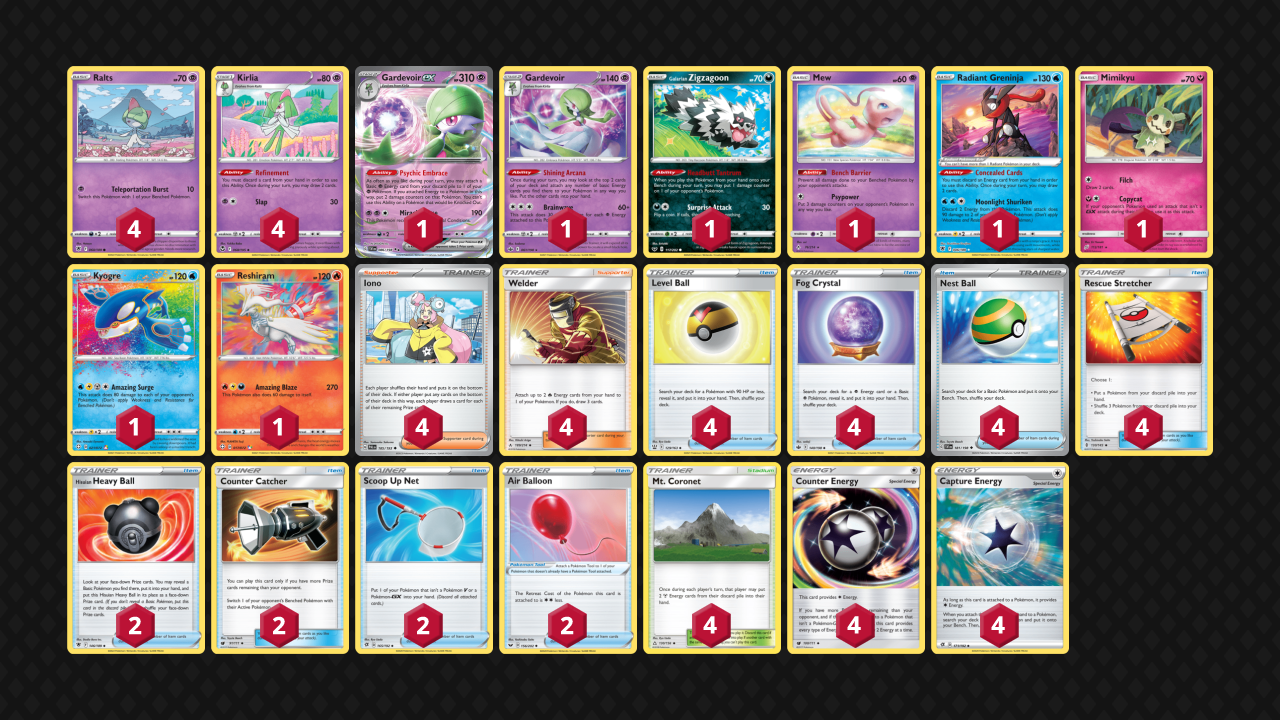
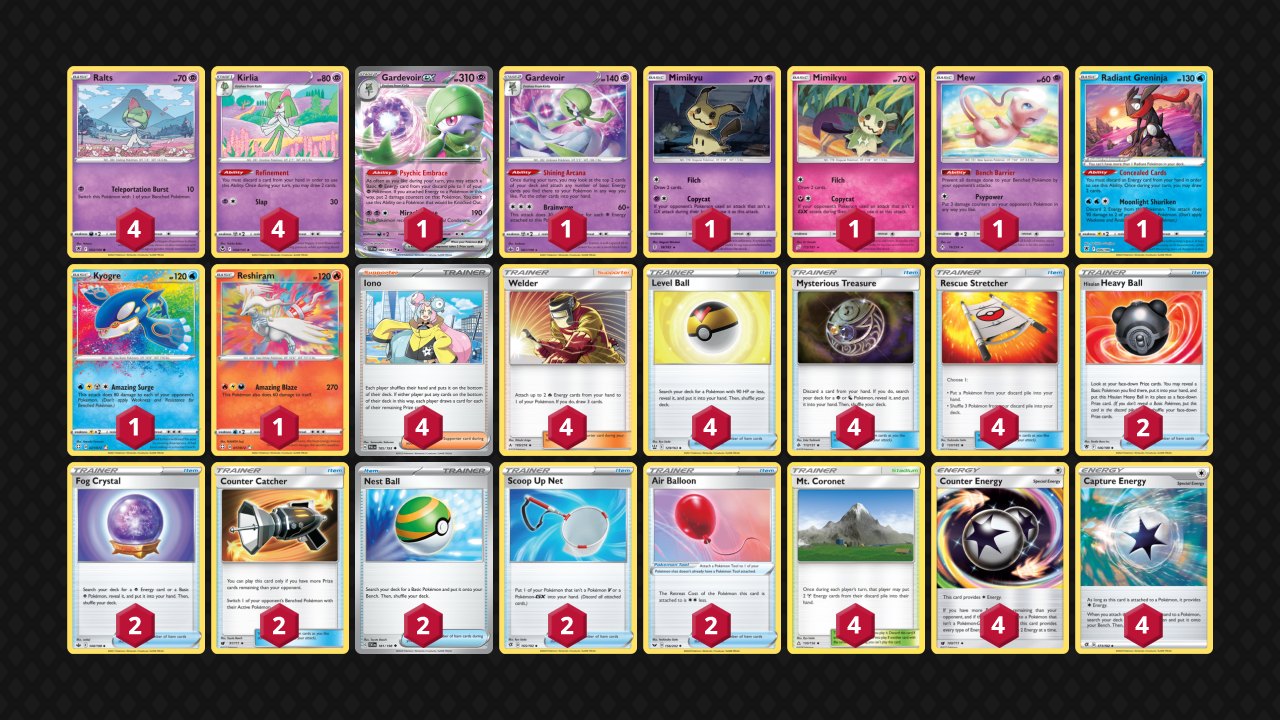
updated getrekt_'s PAL Counter Box decklist

Changed region(s): [[0.25, 0.0917, 0.9688, 0.9167], [0.0625, 0.6417, 0.1562, 0.8556]]

diff --git a/PAL/Counter Box/1- Counter Box.md b/PAL/Counter Box/1- Counter Box.md
@@ -6,17 +6,17 @@ Author: getrekt_
 
 Source: Discord
 
-Date: 20th June 2023
+Date: 22th June 2023
 
 ![decklist](../../images/PAL/Counter%20Box/1-%20Counter%20Box.png)
 
 ## List
 
-* 1 Galarian Zigzagoon SSH 117
 * 1 Mew UNB 76
 * 4 Kirlia SIT 68
 * 1 Gardevoir ex SVI 86
 * 1 Gardevoir CRE 61
+* 1 Mimikyu GRI 58
 * 1 Radiant Greninja ASR 46
 * 4 Ralts ASR 60
 * 1 Mimikyu TEU 112
@@ -25,12 +25,13 @@ Date: 20th June 2023
 * 4 Mt. Coronet UPR 130
 * 4 Level Ball BST 129
 * 2 Hisuian Heavy Ball ASR 146
-* 4 Fog Crystal CRE 140
+* 2 Fog Crystal CRE 140
 * 4 Iono PAL 185
 * 4 Welder UNB 189
 * 2 Counter Catcher CIN 91
+* 4 Mysterious Treasure FLI 113
 * 2 Air Balloon SSH 156
-* 4 Nest Ball SVI 181
+* 2 Nest Ball SVI 181
 * 4 Rescue Stretcher GRI 130
 * 2 Scoop Up Net RCL 165
 * 4 Counter Energy CIN 100
